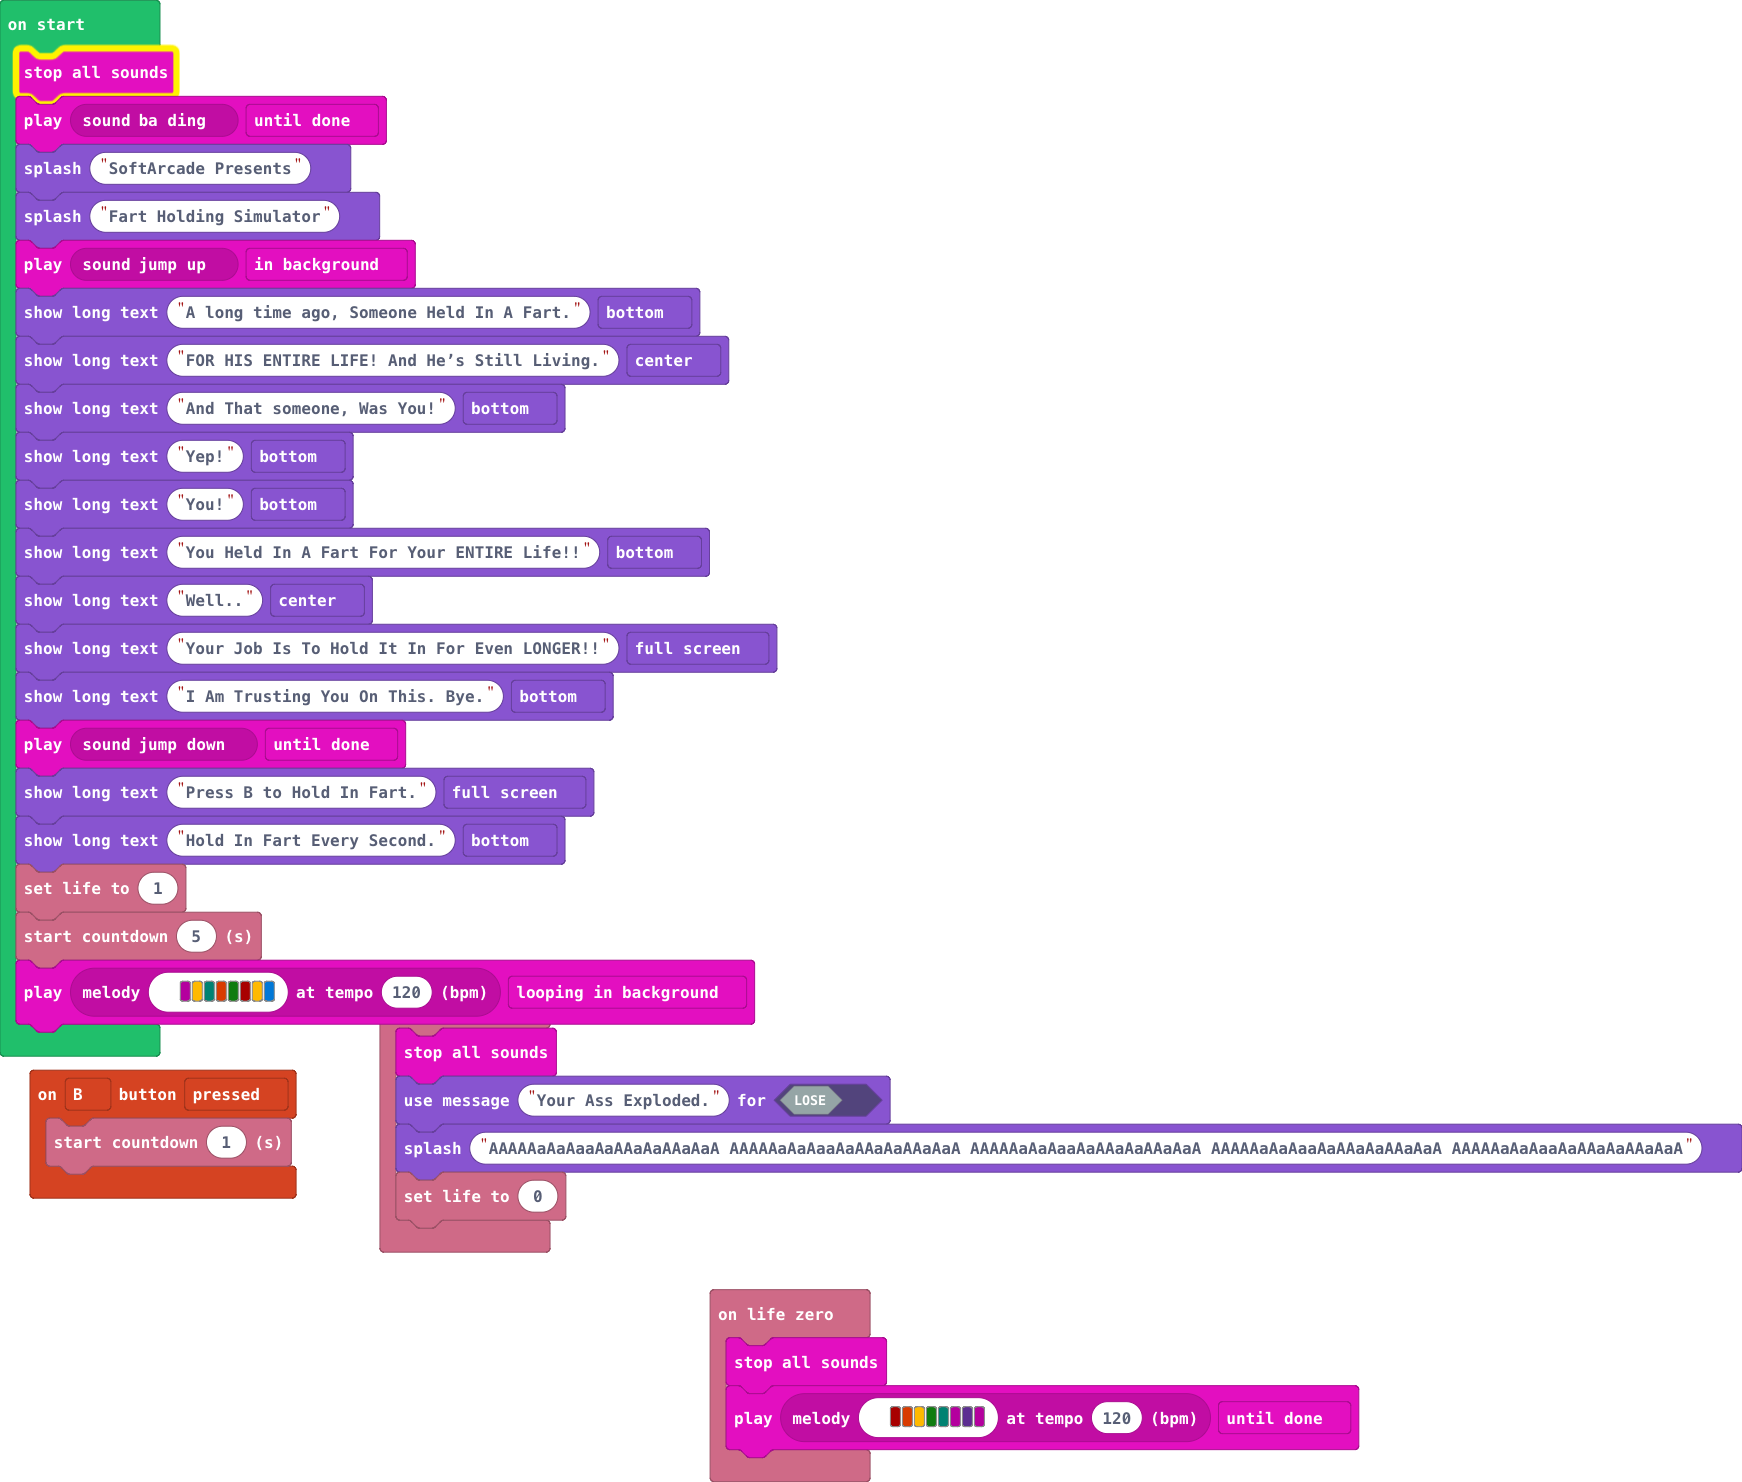
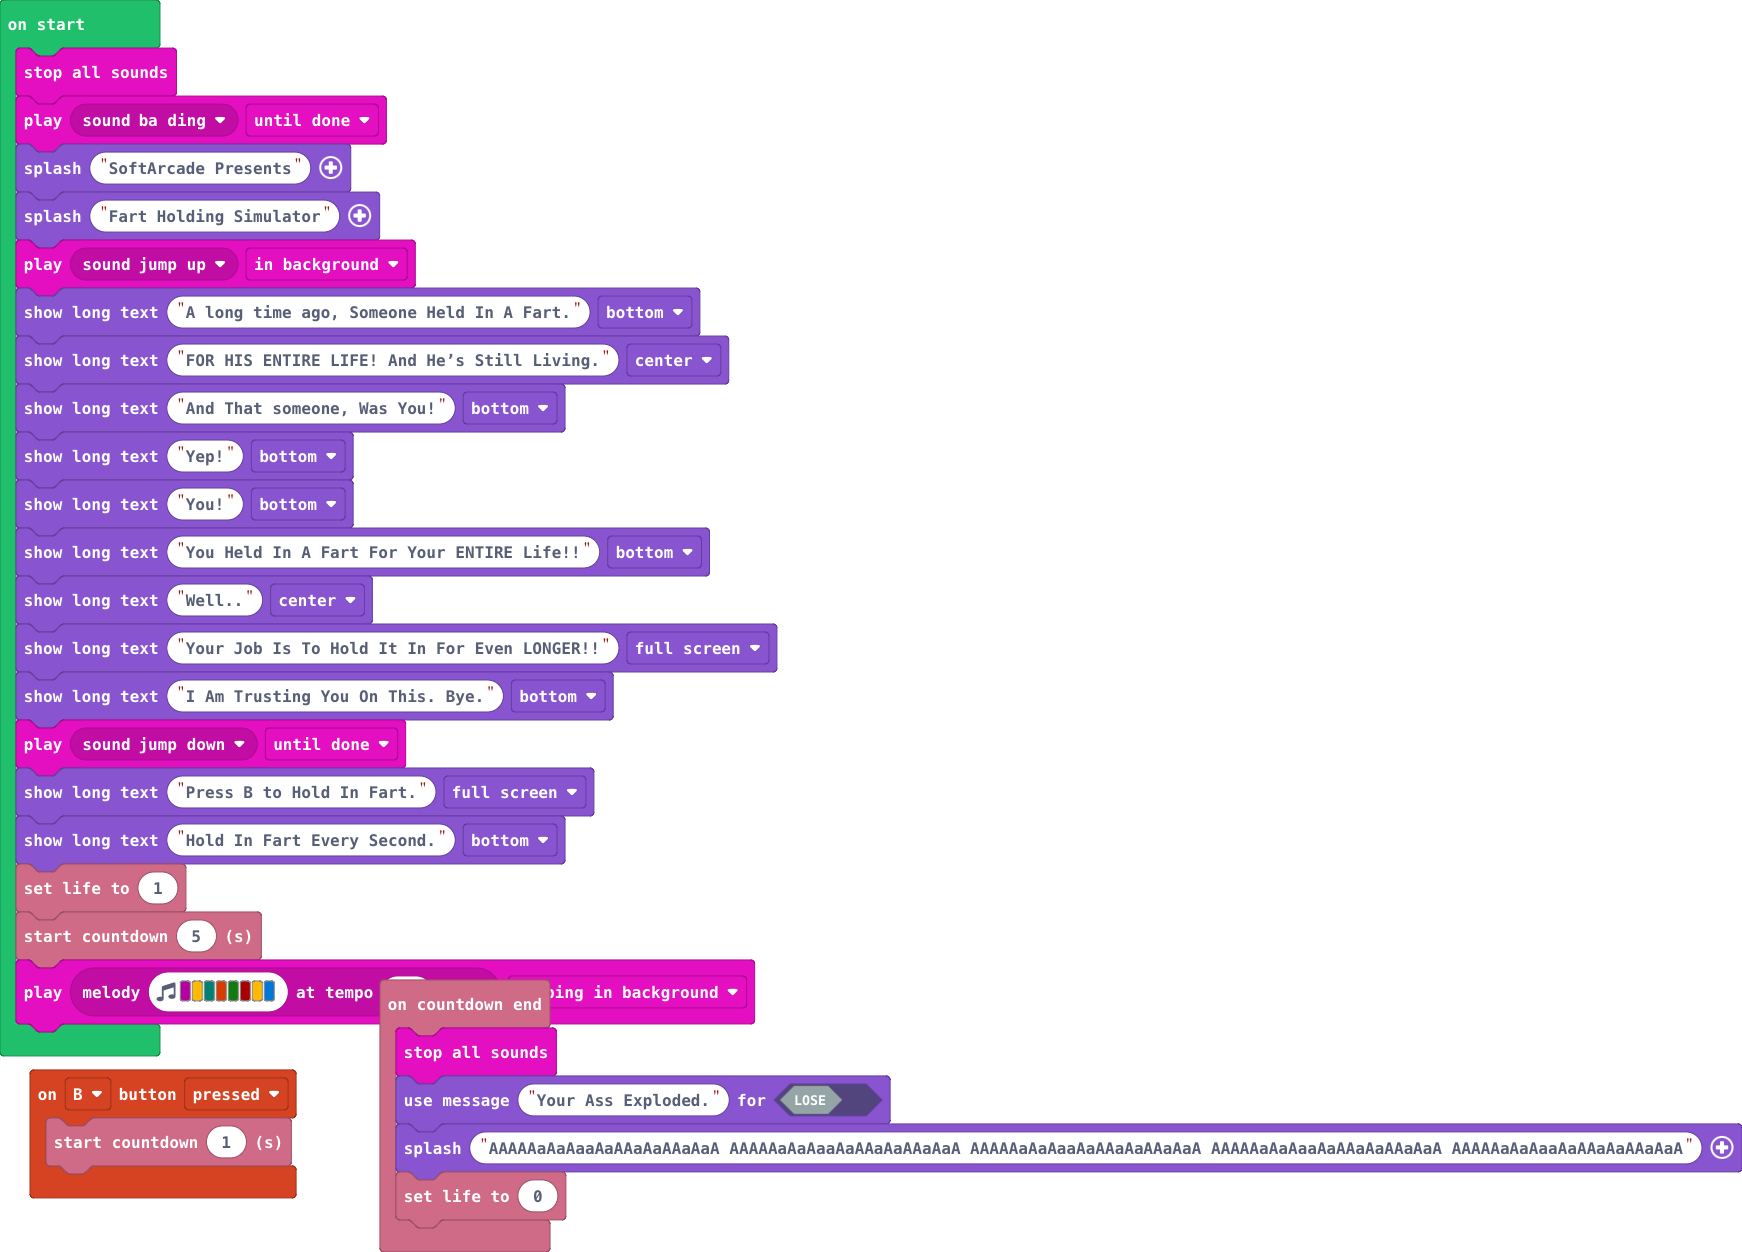
Update main.blocks, main.ts

Changed region(s): [[0.0, 0.0, 1.0, 1.0]]

diff --git a/main.ts b/main.ts
@@ -7,10 +7,6 @@ info.onCountdownEnd(function () {
     game.splash("AAAAAaAaAaaAaAAaAaAAaAaA AAAAAaAaAaaAaAAaAaAAaAaA AAAAAaAaAaaAaAAaAaAAaAaA AAAAAaAaAaaAaAAaAaAAaAaA AAAAAaAaAaaAaAAaAaAAaAaA")
     info.setLife(0)
 })
-info.onLifeZero(function () {
-    music.stopAllSounds()
-    music.play(music.stringPlayable("C5 B A G F C D C ", 120), music.PlaybackMode.UntilDone)
-})
 music.stopAllSounds()
 music.play(music.melodyPlayable(music.baDing), music.PlaybackMode.UntilDone)
 game.splash("SoftArcade Presents")
